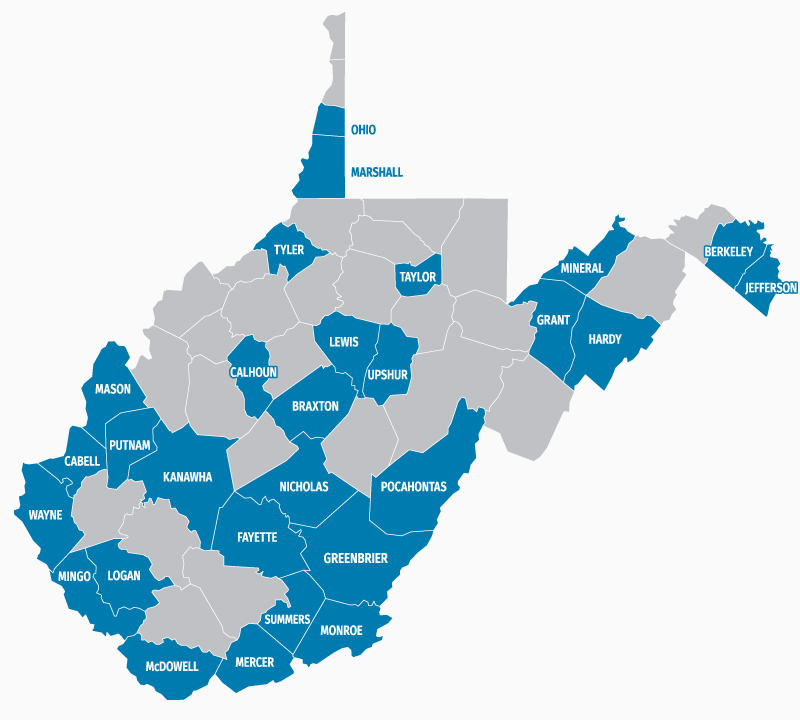
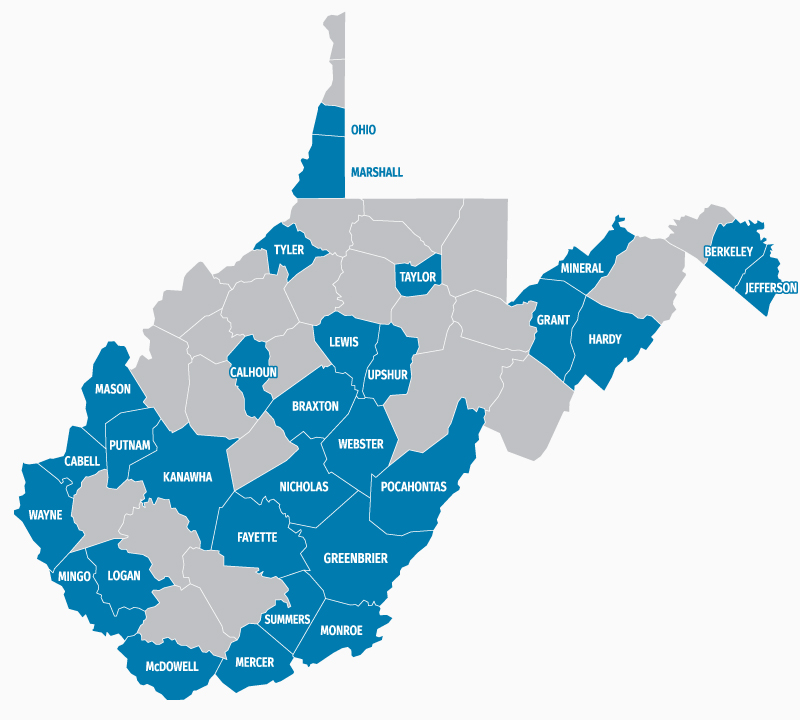
added Webster to the GYO counties list

Changed region(s): [[0.4062, 0.55, 0.5, 0.7028]]

diff --git a/src/grow-your-own.html b/src/grow-your-own.html
@@ -117,7 +117,7 @@ eleventyNavigation:
     </div>
 </section>
 
-{% set pilotCounties = '<p class="text-lg">Grow Your Own Programs are being piloted in the following counties:</p> <p class="text-md">Berkeley, Braxton, Cabell, Calhoun, Fayette, Grant, Greenbrier, Hardy, Jefferson, Kanawha, Lewis, Logan, Marshall, Mason, McDowell, Mercer, Mineral, Mingo, Monroe, Nicholas, Ohio, Pocahontas, Putnam, Summers, Taylor, Tyler, Upshur, and Wayne.</p>' %}
+{% set pilotCounties = '<p class="text-lg">Grow Your Own Programs are being piloted in the following counties:</p> <p class="text-md">Berkeley, Braxton, Cabell, Calhoun, Fayette, Grant, Greenbrier, Hardy, Jefferson, Kanawha, Lewis, Logan, Marshall, Mason, McDowell, Mercer, Mineral, Mingo, Monroe, Nicholas, Ohio, Pocahontas, Putnam, Summers, Taylor, Tyler, Upshur, Wayne, and Webster.</p>' %}
 <section class="border-t py-8">
     <div class="container max-w-6xl">
     <div class="block md:grid md:grid-cols-5 gap-x-default">
